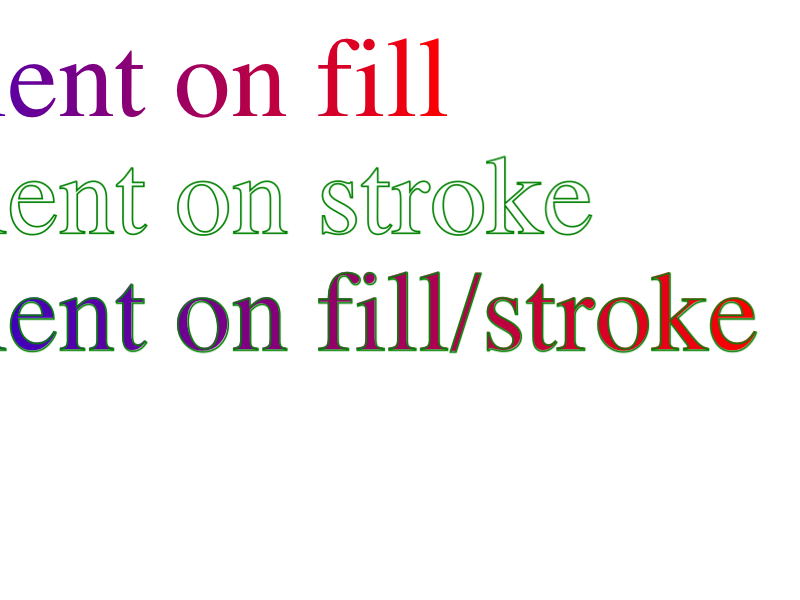
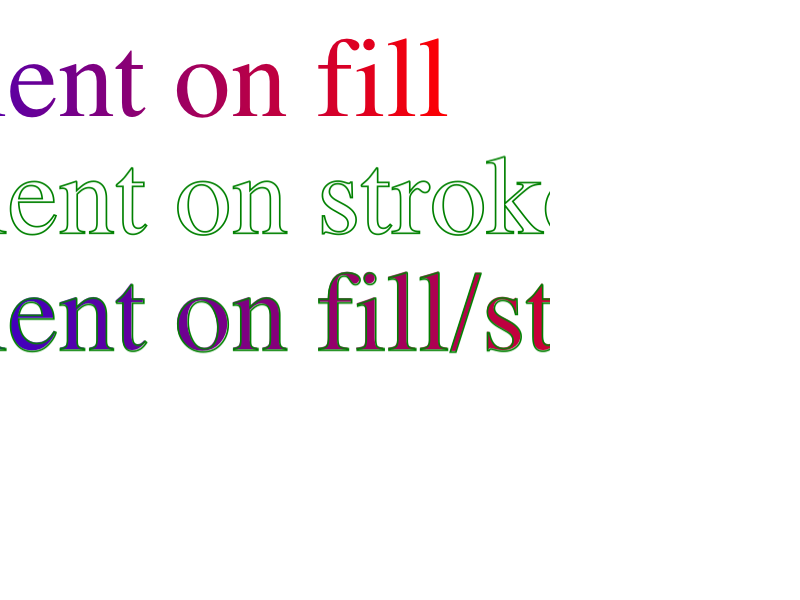
Reviewed by Anders.
Fix last layout test failure seen on buildbot "trunk-mac-ppc-release".
Problem: "svg/custom/mask-excessive-malloc.svg -> crashed"

Clamp any ImageBuffer allocation within SVG to the RenderView's visibleSize
to avoid excessive mallocs (in the testcase above 1000000x1000000)

git-svn-id: https://svn.webkit.org/repository/webkit/trunk@26745 268f45cc-cd09-0410-ab3c-d52691b4dbfc

Changed region(s): [[0.6875, 0.45, 0.9688, 0.6], [0.6562, 0.3, 0.75, 0.39]]

diff --git a/WebCore/platform/graphics/svg/cg/SVGPaintServerGradientCg.cpp b/WebCore/platform/graphics/svg/cg/SVGPaintServerGradientCg.cpp
@@ -32,6 +32,7 @@
 #include "SVGGradientElement.h"
 #include "SVGPaintServerLinearGradient.h"
 #include "SVGPaintServerRadialGradient.h"
+#include "SVGRenderSupport.h"
 
 using namespace std;
 
@@ -187,6 +188,15 @@ void SVGPaintServerGradient::teardown(GraphicsContext*& context, const RenderObj
             AffineTransform transform = object->absoluteTransform();
             FloatRect textBoundary = transform.mapRect(maskBBox);
 
+            IntSize maskSize(lroundf(textBoundary.width()), lroundf(textBoundary.height()));
+            clampImageBufferSizeToViewport(object->document()->renderer(), maskSize);
+
+            if (maskSize.width() < static_cast<int>(textBoundary.width()))
+                textBoundary.setWidth(maskSize.width());
+
+            if (maskSize.height() < static_cast<int>(textBoundary.height()))
+                textBoundary.setHeight(maskSize.height());
+
             // Clip current context to mask image (gradient)
             m_savedContext->concatCTM(transform.inverse());
             CGContextClipToMask(m_savedContext->platformContext(), CGRect(textBoundary), m_imageBuffer->cgImage());
@@ -276,7 +286,10 @@ bool SVGPaintServerGradient::setup(GraphicsContext*& context, const RenderObject
         FloatRect maskBBox = const_cast<RenderObject*>(findTextRootObject(object))->relativeBBox(false);
         IntRect maskRect = enclosingIntRect(object->absoluteTransform().mapRect(maskBBox));
 
-        auto_ptr<ImageBuffer> maskImage = ImageBuffer::create(IntSize(maskRect.width(), maskRect.height()), false);
+        IntSize maskSize(maskRect.width(), maskRect.height());
+        clampImageBufferSizeToViewport(object->document()->renderer(), maskSize);
+
+        auto_ptr<ImageBuffer> maskImage = ImageBuffer::create(maskSize, false);
 
         if (!maskImage.get()) {
             context->restore();

diff --git a/WebCore/ksvg2/svg/SVGPatternElement.cpp b/WebCore/ksvg2/svg/SVGPatternElement.cpp
@@ -155,6 +155,15 @@ void SVGPatternElement::buildPattern(const FloatRect& targetRect) const
     if (patternBoundaries.height() > targetRect.height())
         patternBoundaries.setHeight(targetRect.height());
 
+    IntSize patternSize(patternBoundaries.width(), patternBoundaries.height());
+    clampImageBufferSizeToViewport(document()->renderer(), patternSize);
+
+    if (patternSize.width() < static_cast<int>(patternBoundaries.width()))
+        patternBoundaries.setWidth(patternSize.width());
+
+    if (patternSize.height() < static_cast<int>(patternBoundaries.height()))
+        patternBoundaries.setHeight(patternSize.height());
+
     // Eventually calculate the pattern content boundaries (only needed with overflow="visible").
     RenderStyle* style = renderer()->style();
     if (style->overflowX() == OVISIBLE && style->overflowY() == OVISIBLE) {
@@ -181,8 +190,10 @@ void SVGPatternElement::buildPattern(const FloatRect& targetRect) const
         patternBoundariesIncludingOverflow.unite(patternContentBoundaries);
     }
 
-    auto_ptr<ImageBuffer> patternImage = ImageBuffer::create(IntSize(lroundf(patternBoundariesIncludingOverflow.width()),
-                                                                     lroundf(patternBoundariesIncludingOverflow.height())), false);
+    IntSize imageSize(lroundf(patternBoundariesIncludingOverflow.width()), lroundf(patternBoundariesIncludingOverflow.height()));
+    clampImageBufferSizeToViewport(document()->renderer(), imageSize);
+
+    auto_ptr<ImageBuffer> patternImage = ImageBuffer::create(imageSize, false);
 
     if (!patternImage.get())
         return;

diff --git a/WebCore/platform/graphics/svg/cg/SVGResourceMaskerCg.mm b/WebCore/platform/graphics/svg/cg/SVGResourceMaskerCg.mm
@@ -34,6 +34,7 @@
 #import "GraphicsContext.h"
 #import "ImageBuffer.h"
 #import "SVGMaskElement.h"
+#import "SVGRenderSupport.h"
 #import "SVGRenderStyle.h"
 #import "SVGResourceFilter.h"
 #import <QuartzCore/CIFilter.h>
@@ -99,6 +100,7 @@ void SVGResourceMasker::applyMask(GraphicsContext* context, const FloatRect& bou
         return;
     
     IntSize maskSize(static_cast<int>(m_maskRect.width()), static_cast<int>(m_maskRect.height()));
+    clampImageBufferSizeToViewport(m_ownerElement->document()->renderer(), maskSize);
 
     // Create new graphics context in gray scale mode for image rendering
     auto_ptr<ImageBuffer> grayScaleImage(ImageBuffer::create(maskSize, true));
@@ -114,7 +116,7 @@ void SVGResourceMasker::applyMask(GraphicsContext* context, const FloatRect& bou
     if (!colorMask)
         return;
     CIImage* grayScaleMask = transformImageIntoGrayscaleMask(colorMask);
-    [ciGrayscaleContext drawImage:grayScaleMask atPoint:CGPointZero fromRect:CGRectMake(0, 0, m_maskRect.width(), m_maskRect.height())];
+    [ciGrayscaleContext drawImage:grayScaleMask atPoint:CGPointZero fromRect:CGRectMake(0, 0, maskSize.width(), maskSize.height())];
 
     CGContextClipToMask(context->platformContext(), m_maskRect, grayScaleImage->cgImage());
     END_BLOCK_OBJC_EXCEPTIONS

diff --git a/WebCore/rendering/SVGRenderSupport.cpp b/WebCore/rendering/SVGRenderSupport.cpp
@@ -31,6 +31,7 @@
 #include "ImageBuffer.h"
 #include "RenderObject.h"
 #include "RenderSVGContainer.h"
+#include "RenderView.h"
 #include "SVGResourceClipper.h"
 #include "SVGResourceFilter.h"
 #include "SVGResourceMasker.h"
@@ -141,6 +142,25 @@ void renderSubtreeToImage(ImageBuffer* image, RenderObject* item)
 
     if (svgContainer && !drawsContents)
         svgContainer->setDrawsContents(false);
+}
+
+void clampImageBufferSizeToViewport(RenderObject* object, IntSize& size)
+{
+    if (!object || !object->isRenderView())
+        return;
+
+    RenderView* view = static_cast<RenderView*>(object);
+    if (!view->frameView())
+        return;
+
+    int viewWidth = view->frameView()->visibleWidth();
+    int viewHeight = view->frameView()->visibleHeight();
+
+    if (size.width() > viewWidth)
+        size.setWidth(viewWidth);
+
+    if (size.height() > viewHeight)
+        size.setHeight(viewHeight);
 }
 
 } // namespace WebCore

diff --git a/WebCore/ksvg2/svg/SVGMaskElement.cpp b/WebCore/ksvg2/svg/SVGMaskElement.cpp
@@ -129,7 +129,16 @@ auto_ptr<ImageBuffer> SVGMaskElement::drawMaskerContent(const FloatRect& targetR
         heightValue = height().value();
     } 
 
-    auto_ptr<ImageBuffer> maskImage = ImageBuffer::create(IntSize(lroundf(widthValue), lroundf(heightValue)), false);
+    IntSize imageSize(lroundf(widthValue), lroundf(heightValue));
+    clampImageBufferSizeToViewport(document()->renderer(), imageSize);
+
+    if (imageSize.width() < static_cast<int>(widthValue))
+        widthValue = imageSize.width();
+
+    if (imageSize.height() < static_cast<int>(heightValue))
+        heightValue = imageSize.height();
+
+    auto_ptr<ImageBuffer> maskImage = ImageBuffer::create(imageSize, false);
     if (!maskImage.get())
         return maskImage;
 

diff --git a/WebCore/rendering/SVGRenderSupport.h b/WebCore/rendering/SVGRenderSupport.h
@@ -35,6 +35,8 @@ void finishRenderSVGContent(RenderObject*, RenderObject::PaintInfo&, const Float
 class ImageBuffer;
 void renderSubtreeToImage(ImageBuffer*, RenderObject*);
 
+void clampImageBufferSizeToViewport(RenderObject*, IntSize&);
+
 }
 
 #endif
